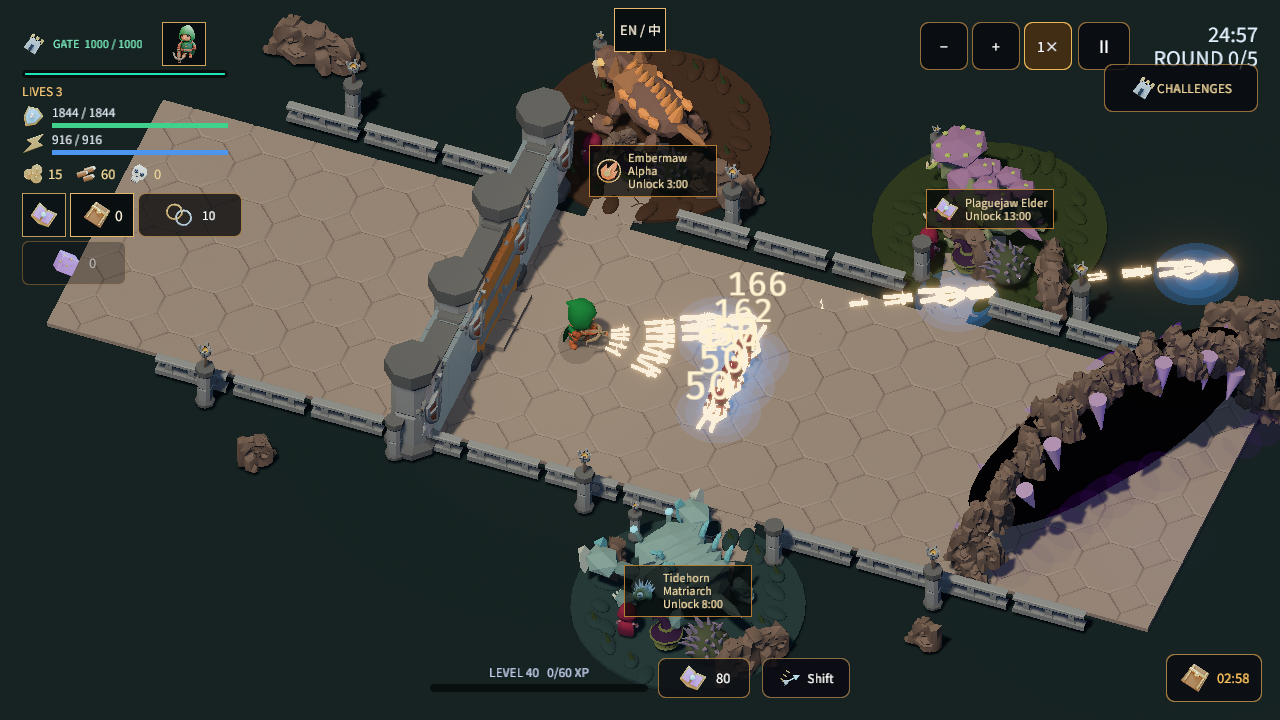
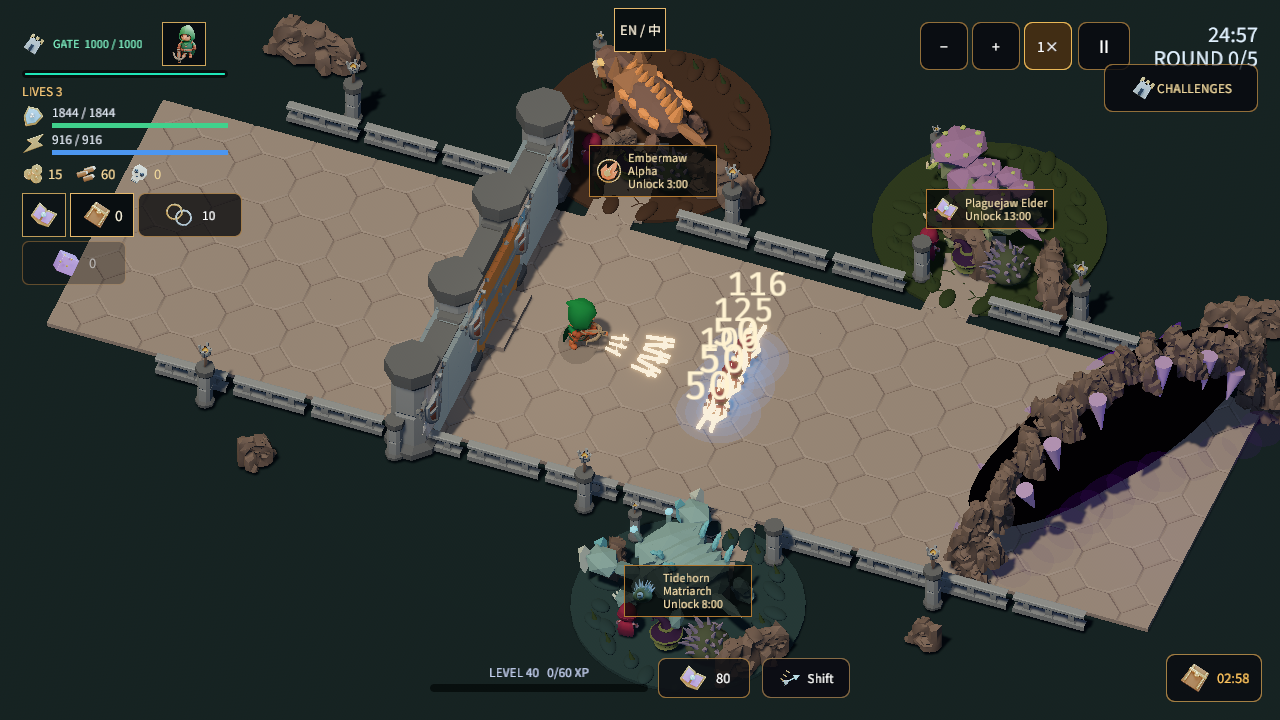
fix: fire one archer arrow per distinct enemy in each volley

Changed region(s): [[0.4688, 0.3667, 0.625, 0.5194], [0.8438, 0.3361, 0.9688, 0.4278], [0.6562, 0.3667, 0.7812, 0.4583]]

diff --git a/src/game/combat.rs b/src/game/combat.rs
@@ -1961,7 +1961,13 @@ fn auto_attack(
             }
 
             let base_direction = (target - hero.translation).normalize_or_zero();
-            let shot_count = class_stats.shots;
+            let shot_count = if weapon == basic_attacks::BasicWeapon::Crossbow {
+                class_stats
+                    .shots
+                    .min(archer_targets.len().min(usize::from(u8::MAX)) as u8)
+            } else {
+                class_stats.shots
+            };
             let mut fired = false;
             if weapon.melee() {
                 commands.spawn(PendingSwing {
@@ -3974,6 +3980,7 @@ mod tests {
         app.init_resource::<AttackClock>()
             .init_resource::<AttackVolleyRuntime>();
         app.world_mut().resource_mut::<HeroVitals>().kind = HeroKind::EmberRanger;
+        app.world_mut().resource_mut::<HeroVitals>().level = 10;
         app.world_mut()
             .resource_mut::<PlayerBuild>()
             .attacks_per_second = 1.0;
@@ -3994,6 +4001,42 @@ mod tests {
         assert!(arrows.iter().all(|(_, bounce)| bounce.remaining == 1));
         assert!(arrows[0].0.velocity.z * arrows[1].0.velocity.z < 0.0);
         assert_eq!(arrows[0].0.damage, arrows[1].0.damage);
+    }
+
+    #[test]
+    fn archer_single_enemy_never_receives_duplicate_initial_arrows() {
+        for level in [1, 10, 40] {
+            let mut app = projectile_test_app();
+            app.init_resource::<AttackClock>()
+                .init_resource::<AttackVolleyRuntime>();
+            {
+                let mut vitals = app.world_mut().resource_mut::<HeroVitals>();
+                vitals.kind = HeroKind::EmberRanger;
+                vitals.level = level;
+            }
+            app.world_mut()
+                .resource_mut::<PlayerBuild>()
+                .attacks_per_second = 1.0;
+            app.world_mut().spawn((Hero, Transform::default()));
+            app.world_mut()
+                .spawn((test_enemy(1000.0), Transform::from_xyz(3.0, 0.0, 0.0)));
+            app.world_mut()
+                .spawn((test_enemy(0.0), Transform::from_xyz(3.0, 0.0, 1.0)));
+            app.world_mut()
+                .resource_mut::<Time>()
+                .advance_by(std::time::Duration::from_secs(1));
+            app.world_mut().run_system_once(auto_attack).unwrap();
+            let mut arrows = app
+                .world_mut()
+                .query::<(&Projectile, Option<&basic_attacks::Ricochet>)>();
+            let arrows: Vec<_> = arrows.iter(app.world()).collect();
+            assert_eq!(arrows.len(), 1, "level {level}");
+            assert_eq!(arrows[0].1.is_some(), level >= 10);
+            assert_eq!(
+                arrows[0].0.damage,
+                app.world().resource::<PlayerBuild>().attack_damage
+            );
+        }
     }
 
     #[test]
@@ -4198,8 +4241,8 @@ mod tests {
         app.update();
         let mut arrows=app.world_mut().query_filtered::<(&Projectile,&basic_attacks::Ricochet),With<super::super::hero_fusion::FusionAttack>>();
         let arrows: Vec<_> = arrows.iter(app.world()).collect();
-        assert_eq!(arrows.len(), 5);
-        assert!(arrows.iter().all(|(_, bounce)| bounce.remaining == 4));
+        assert_eq!(arrows.len(), 1);
+        assert!(arrows.iter().all(|(_, bounce)| bounce.remaining == 3));
         let base = app.world().resource::<PlayerBuild>().attack_damage;
         assert!(
             arrows
@@ -4639,8 +4682,8 @@ mod tests {
             .collect();
         assert_eq!(
             flights.len(),
-            4,
-            "two native arrows plus two arrows in exactly one nonrecursive bonus volley"
+            2,
+            "one native arrow plus one arrow in exactly one nonrecursive bonus volley"
         );
         assert!(
             flights

diff --git a/src/bin/capture/attacks.rs b/src/bin/capture/attacks.rs
@@ -21,6 +21,8 @@ struct WeaponGrowthProbe {
 
 pub fn configure_growth(world: &mut World, scenario: &str) {
     let (class, tier) = scenario
+        .strip_suffix("-single")
+        .unwrap_or(scenario)
         .strip_prefix("weapon-growth-")
         .unwrap()
         .rsplit_once('-')
@@ -121,7 +123,7 @@ pub fn install(app: &mut bevy::app::SubApp, scenario: &str) {
     let scene = world.resource::<GameAssets>().enemy_scenes[0].clone();
     let fragile = scenario.ends_with("-fragile");
     let target_hp = if fragile { FRAGILE_HP } else { 100_000.0 };
-    for index in 0..3 {
+    for index in 0..if scenario.ends_with("-single") { 1 } else { 3 } {
         let position = Vec3::new(
             if melee { -0.7 } else { 3.0 },
             0.0,
@@ -265,6 +267,24 @@ fn audit_growth(world: &mut World) {
         .iter(world)
         .any(|name| name.as_str() == "Weapon swing trail");
     if !world.resource::<WeaponGrowthProbe>().flight && (swing || !projectile_rows.is_empty()) {
+        if world.resource::<SelectedHero>().kind == HeroKind::EmberRanger {
+            let expected = if !advanced
+                || world
+                    .resource::<WeaponGrowthProbe>()
+                    .scenario
+                    .ends_with("-single")
+            {
+                1
+            } else {
+                3
+            };
+            assert_eq!(
+                projectile_rows.len(),
+                expected,
+                "initial volley uses one arrow per distinct target; starter has one arrow"
+            );
+            println!("[capture] PASS archer-first-volley arrows={expected}");
+        }
         world.resource_mut::<WeaponGrowthProbe>().flight = true;
         println!("[capture] weapon-growth-stage actual-flight frame={frame}");
     }

diff --git a/src/game/basic_attacks/class_mechanics.rs b/src/game/basic_attacks/class_mechanics.rs
@@ -26,14 +26,14 @@ pub fn class_basic_stats(kind: HeroKind, level: u32, build: &PlayerBuild) -> Cla
     let warrior = matches!(weapon, BasicWeapon::Sword | BasicWeapon::Axe);
     ClassBasicStats {
         shots: if archer {
-            (2 + tier)
+            (1 + tier)
                 .saturating_add(build.multishot.saturating_sub(1))
                 .min(8)
         } else {
             build.multishot.max(1)
         },
         bounces: if archer {
-            (1 + tier).saturating_add(build.ricochet).min(4)
+            tier.saturating_add(build.ricochet).min(4)
         } else {
             0
         },
@@ -100,10 +100,10 @@ mod tests {
     fn class_milestones_and_bounded_equipment_feed_real_attack_profiles() {
         let build = PlayerBuild::default();
         for (level, shots, bounces, ratio) in [
-            (1, 2, 1, 0.6),
-            (10, 3, 2, 0.7),
-            (20, 4, 3, 0.8),
-            (40, 5, 4, 0.9),
+            (1, 1, 0, 0.6),
+            (10, 2, 1, 0.7),
+            (20, 3, 2, 0.8),
+            (40, 4, 3, 0.9),
         ] {
             let archer = class_basic_stats(HeroKind::EmberRanger, level, &build);
             assert_eq!((archer.shots, archer.bounces), (shots, bounces));

diff --git a/src/game/hero_fusion.rs b/src/game/hero_fusion.rs
@@ -198,7 +198,14 @@ fn emit(
                 a.distance_squared(target.translation)
                     .total_cmp(&b.distance_squared(target.translation))
             });
-            for shot in 0..class_stats.shots {
+            let shots = if weapon == basic_attacks::BasicWeapon::Crossbow {
+                class_stats
+                    .shots
+                    .min(targets.len().min(usize::from(u8::MAX)) as u8)
+            } else {
+                class_stats.shots
+            };
+            for shot in 0..shots {
                 let direction = if weapon == basic_attacks::BasicWeapon::Crossbow {
                     targets
                         .get(usize::from(shot))

diff --git a/docs/class-basic-attacks.md b/docs/class-basic-attacks.md
@@ -1,6 +1,6 @@
 # Class basic attacks
 
-Archers (Ember Ranger and Grove Artificer) use independent arrows that prioritize distinct nearby targets. At hero levels 1/10/20/40 their base volley contains 2/3/4/5 arrows, with 1/2/3/4 additional ricochets per arrow. Existing extra-arrow bonuses stack up to eight arrows. Each ricochet selects the nearest living, previously unhit target within five units and retains 75% of the previous hit's damage. Piercing continues along the current trajectory before ricocheting; it is a separate mechanic. Each arrow tracks its own hit history.
+Archers (Ember Ranger and Grove Artificer) use independent arrows that prioritize distinct nearby targets. At hero levels 1/10/20/40 their base volley contains 1/2/3/4 arrows, with 0/1/2/3 additional ricochets per arrow. Existing extra-arrow bonuses stack up to eight arrows. Each volley is limited to distinct living enemies within range: one enemy receives one initial arrow even with extra-arrow bonuses. Starter archers have no innate ricochet; milestones and acquired bonuses unlock it. Each ricochet selects the nearest living, previously unhit target within five units and retains 75% of the previous hit's damage. Piercing continues along the current trajectory before ricocheting; it is a separate mechanic. Each arrow tracks its own hit history.
 
 Sword and axe warriors deal full damage to their primary target and cleave two additional targets within their forward weapon arc. Secondary damage grows from 60% to 70%/80%/90% at hero levels 10/20/40. Melee reach grows by 0.2 units at each milestone. Cleave and existing melee-target bonuses add targets without hitting enemies behind the hero. Daggers retain their existing damage rules.
 
@@ -11,3 +11,5 @@ Absorbed weapons retain the corresponding class profile, evaluated at the curren
 The Volley card adds an arrow; Rapid Recharge additionally adds a ricochet while retaining its recharge reduction. Sweeping Edge adds a forward melee target. The hero sheet and recruitment preview read the combat profile directly and explain counts, ranges and damage reductions in the selected language.
 
 Verification: [native receipts](../screenshots/class-attacks-validation.txt). Strict all-target Clippy, 507 library tests (one ignored), and native builds passed. Ten desktop/mobile scenarios completed 4,800 full frames, including real opening selection, two-arrow/five-arrow volleys, extra ricochet damage, three-target forward cleave with untouched rear/distant actors, paused effects/damage, two actual fruit recruitments and the hero attribute panel. Level 40 and fruit awards are controlled fixture inputs; these checks do not establish complete campaign balance, browser behavior or performance.
+
+Single-arrow verification: 534 library tests passed, strict checks and native build passed. Eight desktop/mobile cases, 1920 rendered frames, confirm starter one-arrow volleys and upgraded one-arrow volleys when only one living target exists. See [verification](../screenshots/archer-single-arrow-validation.txt).
